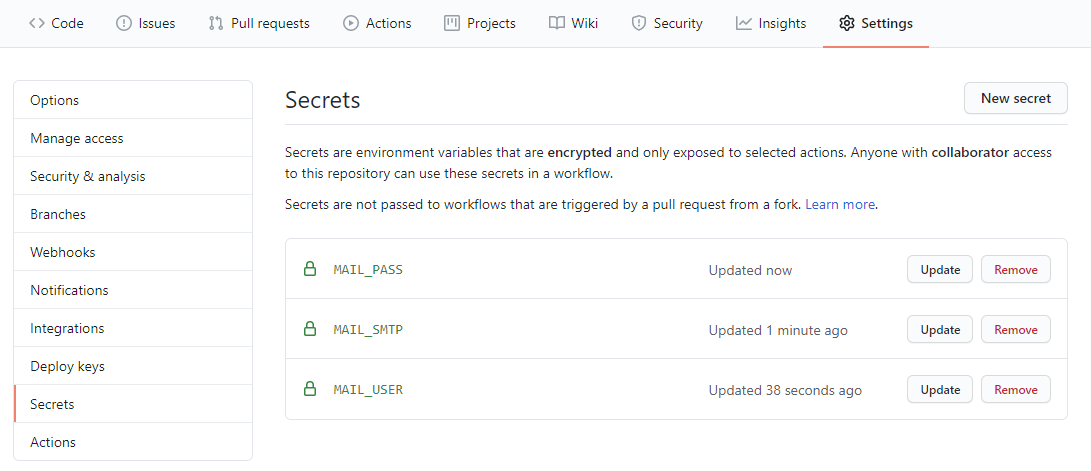
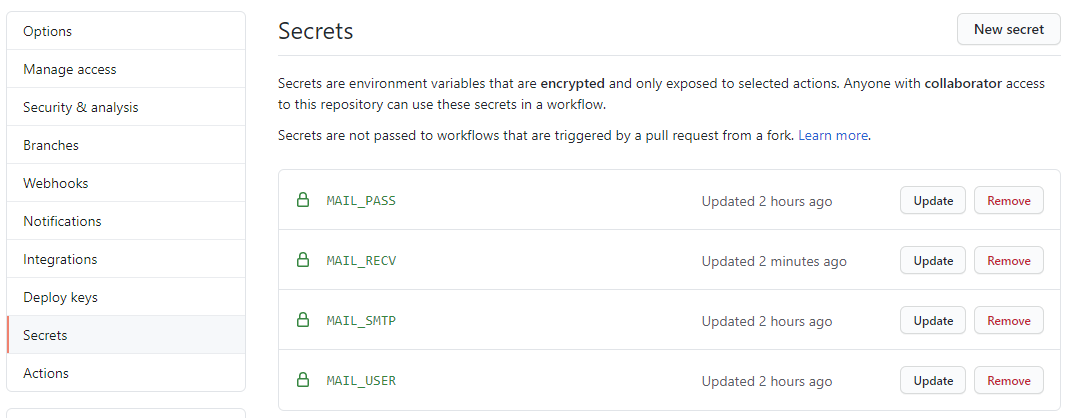
0727

diff --git a/README.md b/README.md
@@ -80,7 +80,7 @@
 <br/>　　`MAIL_USER`： 邮箱账号，如 `threatbroadcast@qq.com`
 <br/>　　`MAIL_PASS`： 邮箱密码
 - 通过 Settings --> Secrets 配置用于 **接收** 威胁情报邮件的 1 个环境变量：
-<br/>　　`MAIL_RECV`： 邮箱账号，多个用英文逗号分隔，如 `abc@foxmail.com,xyz@gmail.com`
+<br/>　　`MAIL_RECV`： 邮箱账号，若有多个则用英文逗号分隔，如 `abc@foxmail.com,xyz@gmail.com`
 
 ![](imgs/secrets.png)
 
